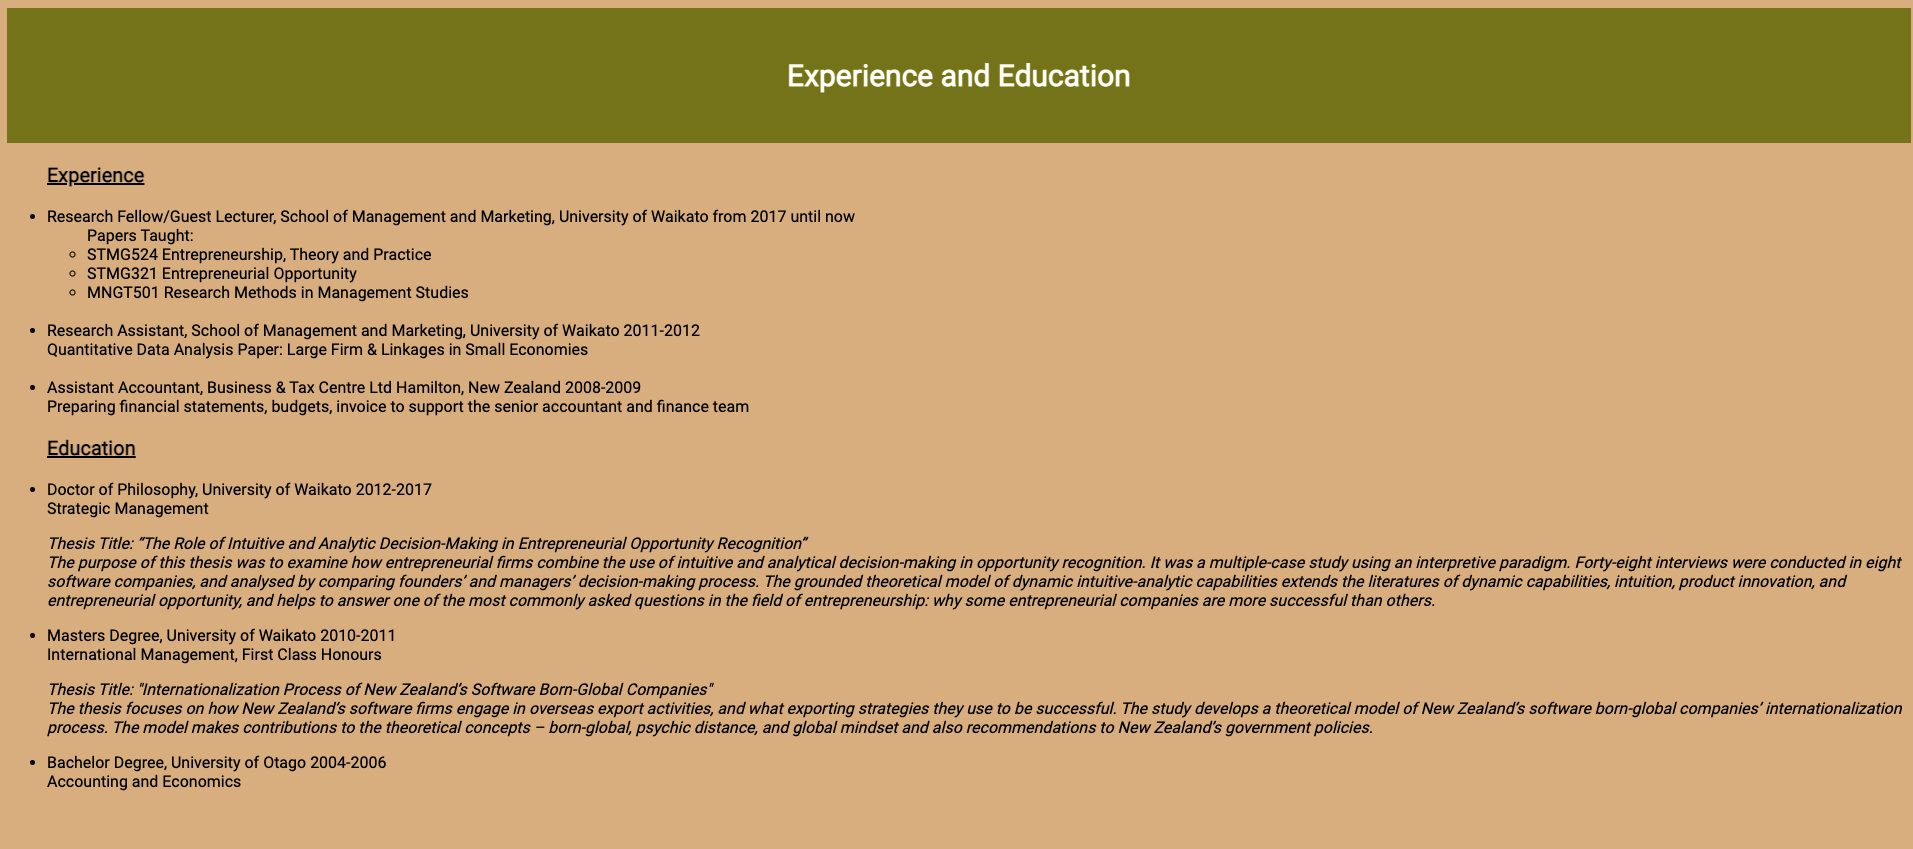
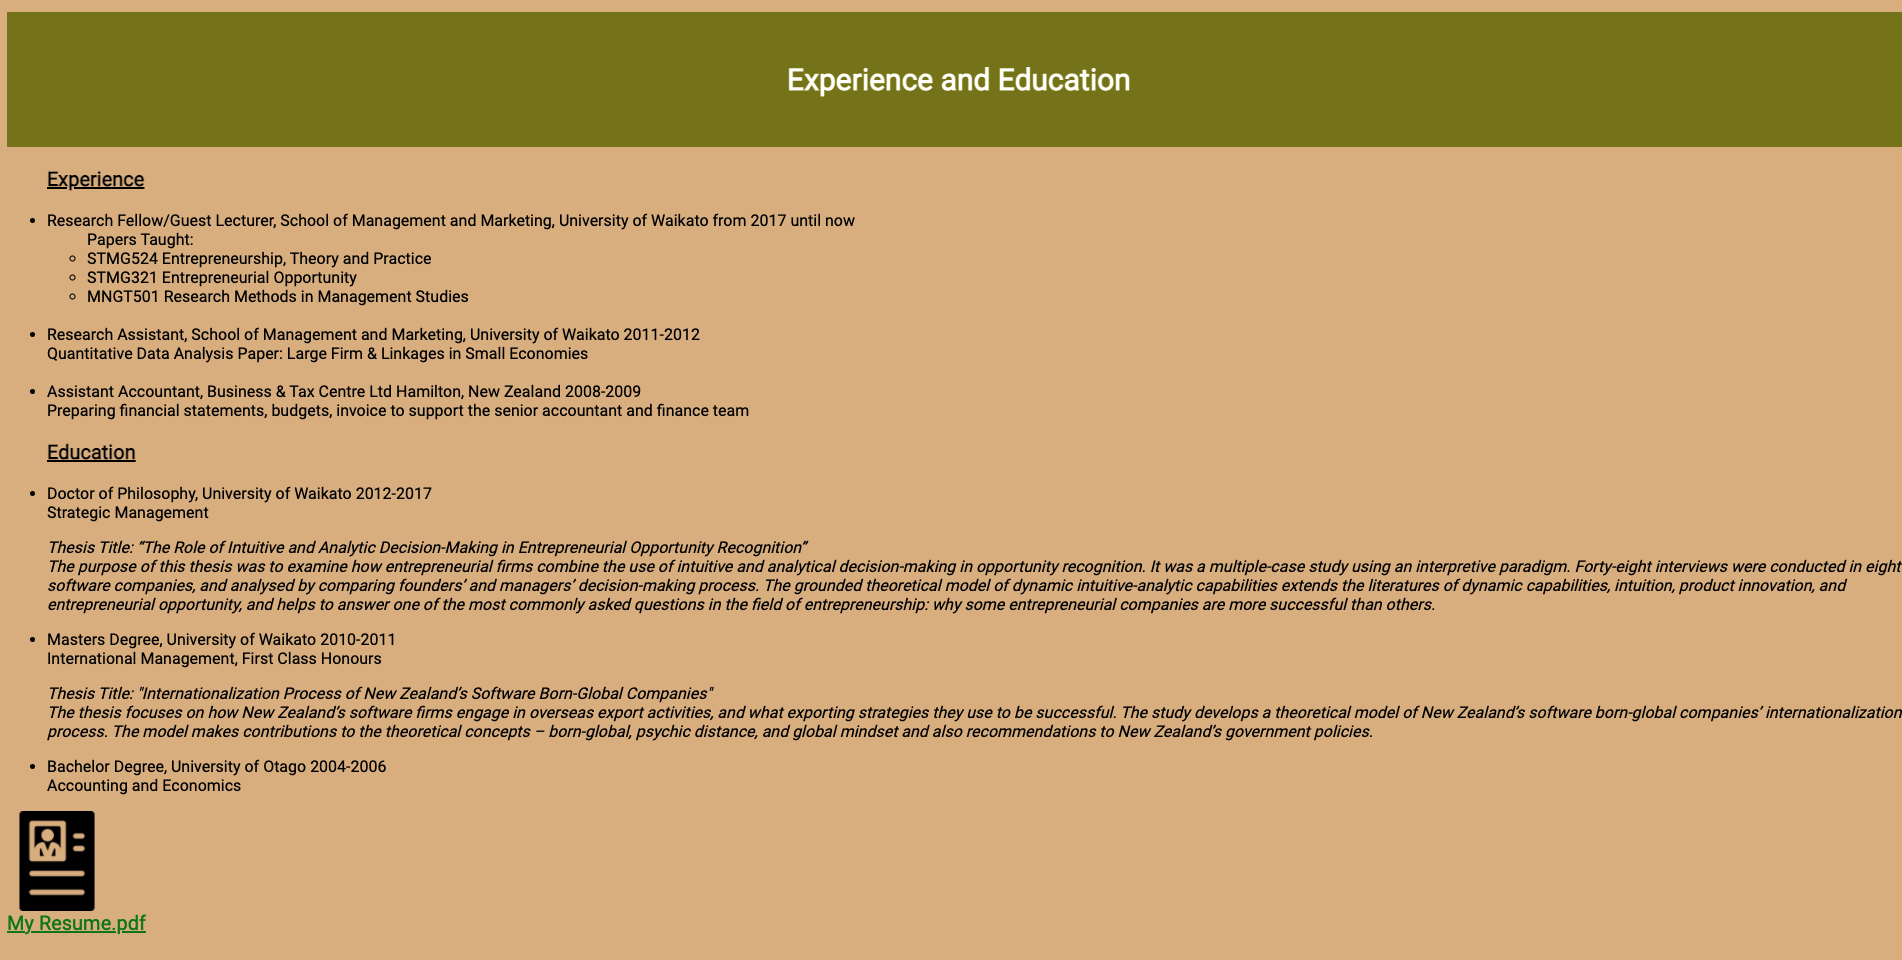
Add files via upload

Changed region(s): [[0.0, 0.0, 1.0, 0.98], [0.4033, 0.0612, 0.5894, 0.1225]]

diff --git a/portfolio homepage.html b/portfolio homepage.html
@@ -38,10 +38,8 @@
     <a href="https://github.com/AnaBondiguel">GitHub</a>
     <img class="logo" src="https://upload.wikimedia.org/wikipedia/commons/c/ca/LinkedIn_logo_initials.png"></a>
     <a href="https://www.linkedin.com/in/mingyang-ana-wang-143313106/">Linkedin</a>
-    <img class="logo" src="https://cdn-icons-png.flaticon.com/512/115/115912.png"></a>
-    <a href="https://drive.google.com/file/d/1ZCgD5RWfbZOGJk2Cp3vYSaNAM0NqQLKh/view?usp=sharing">Resume.pdf</a>
   </div>
-<!-- I created links to my professional accounts: GitHub, Linkedin, and Resume.pdf. And I also added the logo images to those links. -->
+<!-- I created links to my professional accounts: GitHub and Linkedin. And I also added the logo images to those links. -->
 
 </body>
 

diff --git a/Experience and Education.html b/Experience and Education.html
@@ -48,7 +48,9 @@
       </li>
 
     </ul>
+  </section>
 
+  <section>
     <ul>
       <h3 class="subtitle">Education</h3>
       <li>Doctor of Philosophy, University of Waikato 2012-2017
@@ -76,8 +78,14 @@
         Accounting and Economics
       </li>
     </ul>
-
   </section>
+
+  <div>
+    <img class="logo" src="https://cdn-icons-png.flaticon.com/512/115/115912.png"></a>
+    <a href="https://drive.google.com/file/d/1ZCgD5RWfbZOGJk2Cp3vYSaNAM0NqQLKh/view?usp=sharing">My Resume.pdf</a>
+  </div>
+  <!-- I created links to My Resume.pdf. And I also added a logo image to the link. -->
+
 </body>
 
 </html>

diff --git a/portfolio homepage.css b/portfolio homepage.css
@@ -45,7 +45,7 @@ body {
 
 .sidebar {
   display: flex;
-  width: 300px;
+  width: 200px;
   background-color: Gainsboro;
   position: relative;
   height: 100%;
@@ -55,7 +55,7 @@ body {
   justify-content: space-around;
   align-items: center;
 }
-/* I created a sidebar for my GitHub, Linkedin, and Resume.pdf links and used Flexbox to produce a responsive layout */
+/* I created a sidebar for my GitHub and Linkedin links and used Flexbox to produce a responsive layout */
 
 .sidebar a:visited {
   color: green;

diff --git a/Experience and Education.css b/Experience and Education.css
@@ -33,3 +33,20 @@ body {
   }
   /* I used Flexbox for a header with those styles for Heading 1. */
   
+  .logo {
+    width: 100px;
+    height: 100px;
+    display: block;
+  }
+  /* I copied and pasted "logo" to the link of resume with a setup of width, height, and display. */
+  
+  a {
+    font-size: 20px;
+  }
+  /* I changed the font-size of the link */
+  
+  a:visited {
+    color: green;
+  }
+  /* I changed the "Green" colour of visited links. */
+  

diff --git a/README.md b/README.md
@@ -10,7 +10,21 @@ My portfolio is designed to provide a platform to show my experience, eduction, 
 
 ### Functionality / features
 My portfolio has four components including homepage, blog, experience and education, and personality, skills, and interests. Each component have both HTML document and CSS style sheet. 
-Key features includes links to professional accounts and PDF of the resume, blogs with images, and Flexbox responsive layout designs on the navigation bar, sidebar, and headers.
+The key features include: 
+comments in the CSS and HTML code to identify each component;
+semantic HTML elements and attributes (adding meaning and accessibility);
+flexbox responsive layout designs: for different types of screens and; on the navigation bar/sidebar/headers
+
+1. Homepage
+Navigation bar for links to all website pages & Sidebars for links to professional accounts 
+2. Blog Posts
+A list of blog posts with titles and date published & A blog with five sample posts and their images
+3. Experience and Education
+Content about my experience and education history & A link to a PDF resume
+4. Personality, Skills, and Interests
+Content about my experience and education history
+
+
 
 ### Sitemap
 ![Sitemap](Sitemap.png)
@@ -22,7 +36,7 @@ Key features includes links to professional accounts and PDF of the resume, blog
 ![Personality&Skills&Interest](Personality&Skills&Interests.png)
 
 ### Target audience
-Employers 
+Employers, someone who are interested in cooperating with me for projects
 
 ### Tech stack (e.g. html, css, deployment platform, etc)
 HTML, CSS
